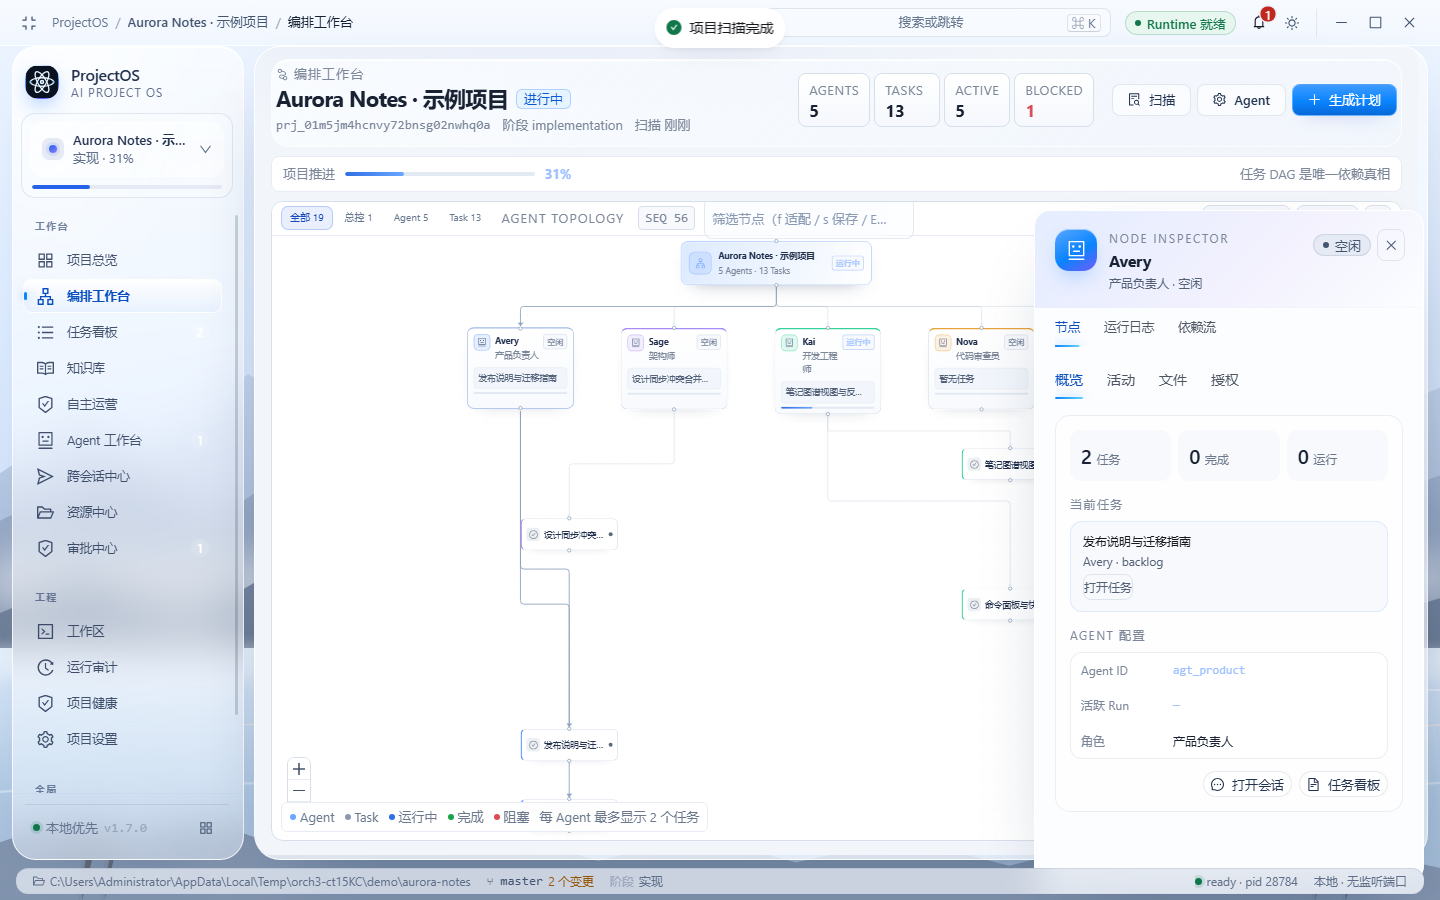
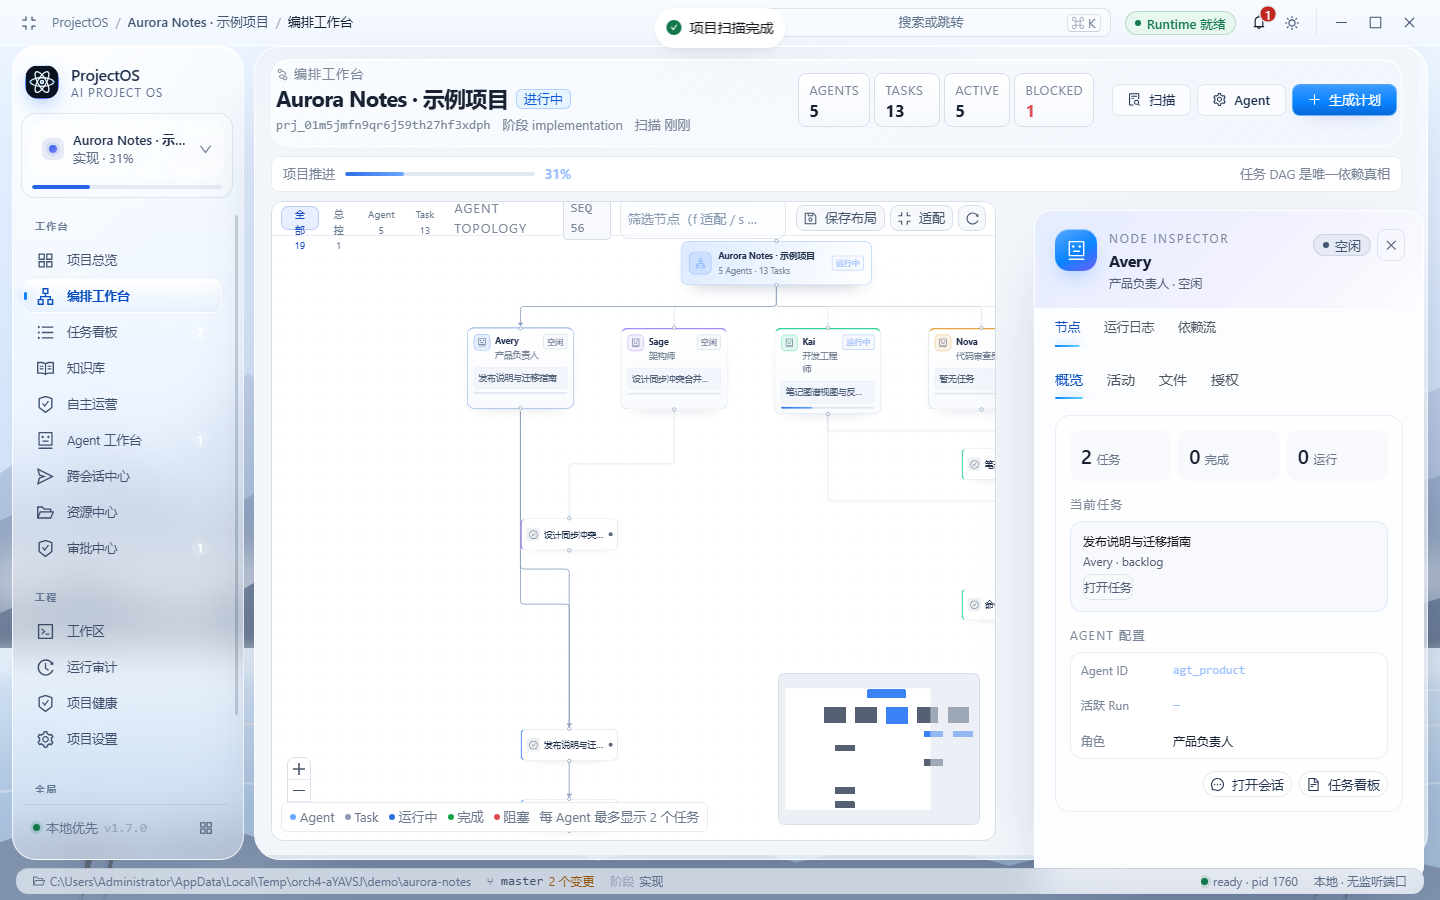
feat(next-ui): reserve orchestration inspector column

diff --git a/apps/desktop/src/renderer/src/styles/next-ui-app.css b/apps/desktop/src/renderer/src/styles/next-ui-app.css
@@ -796,3 +796,14 @@
   .po-agent-workspace.is-run-open .po-chat-pane { margin-right: 384px; }
   .po-agent-workspace.is-run-open .v17-run-bookmark { display: none; }
 }
+
+@media (min-width: 1280px) {
+  .po-orchestration-page.is-inspector-open .po-orch-canvas-card {
+    margin-right: 406px;
+  }
+}
+
+.po-orch-canvas-toolbar { flex-wrap: wrap; row-gap: 6px; height: auto; min-height: 42px; }
+.po-orch-canvas-toolbar > span,
+.po-orch-kind-filter button { white-space: nowrap; }
+.po-orch-kind-filter { flex-wrap: wrap; }

diff --git a/apps/desktop/src/renderer/src/features/orchestration/pages/OrchestrationWorkspace.tsx b/apps/desktop/src/renderer/src/features/orchestration/pages/OrchestrationWorkspace.tsx
@@ -1359,7 +1359,7 @@ export default function OrchestrationWorkspace() {
   })()
 
   return (
-    <div className="po-page po-page-wide po-orchestration-page">
+    <div className={`po-page po-page-wide po-orchestration-page${selected ? ' is-inspector-open' : ''}`}>
         <header className="po-orch-header">
           <div className="po-orch-identity">
             <div className="po-orch-kicker"><NodeIndexOutlined /> 编排工作台</div>

diff --git a/docs/next-ui/MIGRATION_PROGRESS.md b/docs/next-ui/MIGRATION_PROGRESS.md
@@ -3,7 +3,7 @@
 Last updated: 2026-10-22  
 Branch: `feature/projectos-next-ui-full-migration`  
 Base: `fa75923` (accepted Design Lab + overlay system)  
-Latest checkpoint: `2268dbd` after orchestration non-modal inspector and Agent Workbench reserved run column
+Latest checkpoint: orchestration inspector now reserves a content column (pending commit)
 
 This file is the recovery entry point. If a session is compacted or a new Agent
 starts, read this file, `BASELINE_AND_RECOVERY.md`, `OPEN_ISSUES.md`,
@@ -367,3 +367,13 @@ Head: `8023df5`.
   `agent-workbench.png`.
 - `v16-agent-studio-e2e` PASS; plan-review/v13 PASS; build/typecheck PASS.
 
+
+
+## Slice 17 — Orchestration content column
+
+- When a node is selected, the canvas card reserves a 406px right column for the
+  non-modal inspector instead of letting the panel cover graph nodes.
+- Canvas toolbar wraps at the narrower width instead of breaking labels into
+  vertical characters.
+- Graph topology, controls, minimap and inspector data stay unchanged.
+- Evidence: `docs/next-ui/screens/orchestration-inspector.png`.
